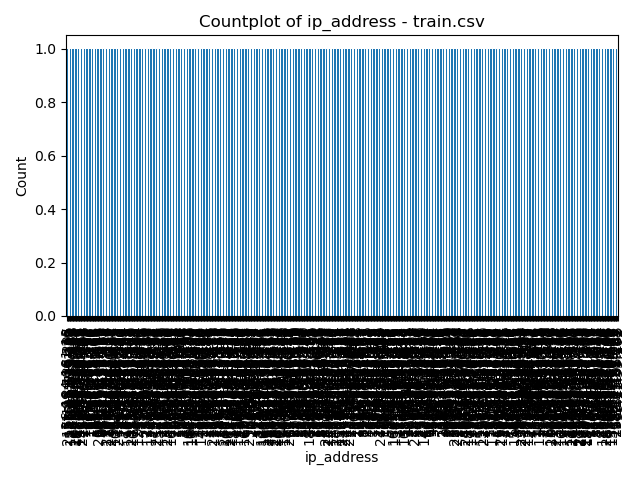
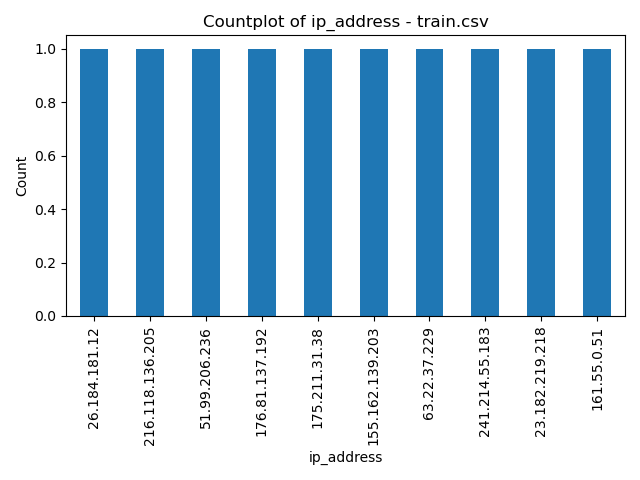
10th commit

diff --git a/EDA.py b/EDA.py
@@ -50,7 +50,8 @@ for file in datasets:
 	# Generate bar plots for categorical columns
 	for col in categorical_cols:
 		plt.figure()
-		df[col].value_counts().plot(kind='bar')
+		top = df[col].value_counts().nlargest(10)
+		top.plot(kind='bar')
 		plt.title(f'Countplot of {col} - {file}')
 		plt.xlabel(col)
 		plt.ylabel('Count')
